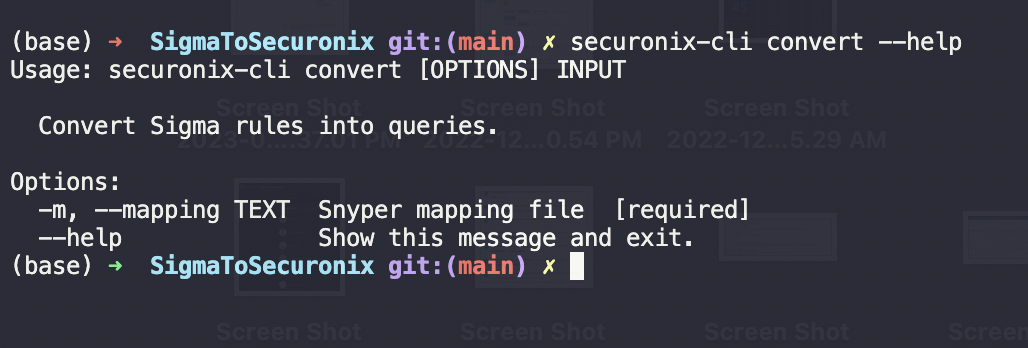
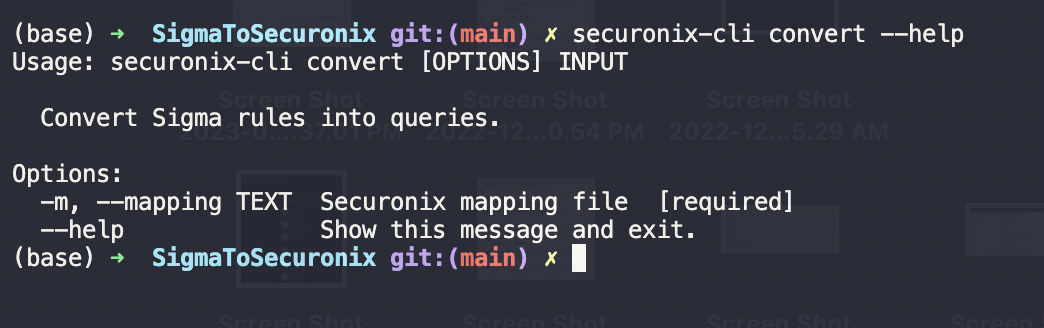
init

Changed region(s): [[0.0, 0.4878, 0.7782, 0.8232], [0.0, 0.061, 0.9339, 0.2439], [0.0311, 0.3354, 0.4981, 0.3963]]

diff --git a/omega/cli/convert.py b/omega/cli/convert.py
@@ -12,7 +12,7 @@ from omega.cli.configuration import Configuration
 )
 @click.option(
     "--mapping", "-m",
-    help="Snyper mapping file",
+    help="Securonix mapping file",
     required=True,
 )
 @click.argument(
